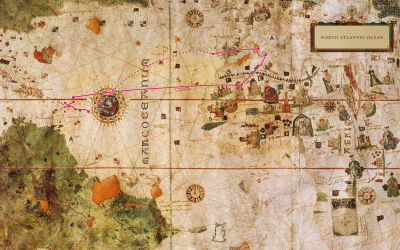
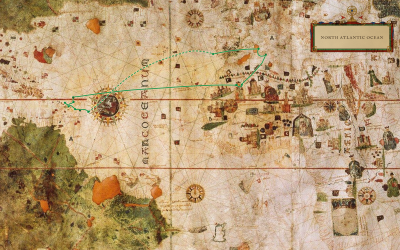
fix(sheet): ink follows the sheet just laid; the settings chips draw a line over a sheet and a lifted one; the golden uses the contrast palette

diff --git a/public/page.js b/public/page.js
@@ -362,6 +362,8 @@ const HOOD_GLYPHS = {
   off: MOUNTAIN_GLYPHS.off,
   sheets: svg(SHEET_GLYPH),
   rings: svg(`${SHEET_GLYPH}<circle cx="14" cy="9" r="4.5" ${stroke(RED, 1)}/><circle cx="14" cy="9" r="1.3" ${stroke(RED, 0.8)}/>${[0, 1, 2, 3, 4, 5, 6, 7].map((i) => `<circle cx="${(14 + 4.5 * Math.sin(i * Math.PI / 4)).toFixed(2)}" cy="${(9 - 4.5 * Math.cos(i * Math.PI / 4)).toFixed(2)}" r=".9" fill="${RED}"/>`).join('')}`),
+  ride: svg(`<rect x="4" y="3" width="20" height="12" ${stroke('currentColor', 1)}/><path d="M2 13C8 3 14 14 26 4" ${stroke(RED, 1.8)}/>`), // a line drawn over a sheet
+  lifted: svg(`<rect x="4" y="3" width="20" height="12" ${stroke('currentColor', 0.8)} stroke-dasharray="2 2"/><path d="M2 13C8 3 14 14 26 4" ${stroke(RED, 1.8)}/>`), // the sheet off, the line alone
   rose: svg(`<path d="M2 9h24M14 2v14M8 2v14M20 2v14M2 5h24M2 13h24" ${stroke('currentColor', 0.5)}/><path d="M14 6l1 3-1 3-1-3Z M11 9l3-1 3 1-3 1Z" fill="${RED}"/>`),
   zero: svg(`<path d="M2 9h24M14 2v14M8 2v14M20 2v14M2 5h24M2 13h24" ${stroke('currentColor', 0.5)}/><circle cx="14" cy="9" r="2.6" ${stroke(RED, 1.2)}/>`),
   curated: svg(`<rect x="3" y="3" width="22" height="12" ${stroke('currentColor', 1)}/><circle cx="14" cy="9" r="4" ${stroke('currentColor', 0.8)}/>`),
@@ -389,7 +391,7 @@ const CHOICES = {
   voyageWidth: VOYAGE_WIDTHS.map((w, i) => [String(w), ['Fine', 'Standard', 'Bold', 'Heavy'][i] ?? `${w} px`, `${w} px`, lineOf('#8c2f1e', w)]),
   scaleBorder: [['bordered', 'Bordered', 'parchment and a double rule'], ['blank', 'Blank', 'parchment, no rule'], ['transparent', 'Transparent', 'drawn over the map']].map(([value, label, note = '']) => [value, label, note, BORDER_GLYPHS[value]]),
   debug: [['off', 'Off', '', HOOD_GLYPHS.off], ['sheets', 'Outlines', 'each sheet of the atlas at this view, in red, with its name', HOOD_GLYPHS.sheets], ['sheets,rings', 'Outlines + rings', 'and each sheet\'s hidden circle: its hub and sixteen nodes', HOOD_GLYPHS.rings]],
-  sheetHides: [['0', 'Voyage rides over', 'a voyage is drawn over the sheet, wherever it lies, and the sheet stays', HOOD_GLYPHS.off], ['1', 'Sheet hides', 'a voyage\'s fly takes the sheet off if it would cover the voyage\'s frame', HOOD_GLYPHS.sheets]],
+  sheetHides: [['0', 'Voyage rides over', 'a voyage is drawn over the sheet, wherever it lies, and the sheet stays', HOOD_GLYPHS.ride], ['1', 'Sheet hides', 'a voyage\'s fly takes the sheet off if it would cover the voyage\'s frame', HOOD_GLYPHS.lifted]],
   overlayMode: [['sheet', 'One sheet', 'the whole scan, opaque, laid level and centred, dragged by hand', HOOD_GLYPHS.sheets], ['pieces', 'Warped pieces', 'each piece warped onto today\'s coast, at the opacity below', HOOD_GLYPHS.rings]],
   tuneOrigin: [['rose', `Catalan rose (${ROSE_AT})`, 'every band\'s grid has a corner on the rose', HOOD_GLYPHS.rose], ['zero', '0° 0°', 'NOAA\'s own zero', HOOD_GLYPHS.zero]],
   tuneCurated: [['1', 'On', 'the curated charts take the place of the grid cells they hold', HOOD_GLYPHS.curated], ['0', 'Off', 'grid cells everywhere', HOOD_GLYPHS.grid]],
@@ -737,17 +739,19 @@ async function render() {
     const t0 = performance.now();
     // a kind is drawn while any of its sprites is selected
     const kinds = KINDS.filter((k) => SPRITES.some((s) => s.kind === k && selection.has(s.key)));
+    const ink = voyageInk(), inkKey = JSON.stringify(ink); // read from the sheet last drawn; checked again once this one lands
     const { scene, data, bg, world, coarse, timing } = await createScene(env, {
       ...style, ...parsePlacement(style.placement), relief: style.mountains === 'colour' ? ['marina'] : style.mountains === 'ink' ? ['engraved'] : [],
       continents: style.continentsZoom > 0, continentsZoom: style.continentsZoom,
       regions: style.regionsZoom > 0 ? style.regions : 'off', regionSet: style.regionSet, regionsZoom: style.regionsZoom,
       sprites: [...selection], kinds, view, pinned: !phone.matches, pinTitle: style.autoTitle ? pinTitle : null,
-      voyages: style.voyages.filter((v) => !v.hidden).map((v) => ({ id: v.id, colour: voyageInk()[v.id], width: style.voyageWidth })), person: style.person, voyageWidth: style.voyageWidth,
+      voyages: style.voyages.filter((v) => !v.hidden).map((v) => ({ id: v.id, colour: ink[v.id], width: style.voyageWidth })), person: style.person, voyageWidth: style.voyageWidth,
       overlay: style.overlay ? { id: style.overlay, mode: style.overlayMode, sheet: style.sheet, opacity: style.overlayOpacity } : null,
       debug: parseDebug(style.debug).debug, tune: parseTune(style.tune).tune,
     });
     if (me !== run) return; // a newer change or a move superseded this one
     ground = { world, coarse, bg, voyages: scene.voyages, anchored: anchorScene(scene, data), overlay: scene.overlay, cards: { cartouche: kinds.includes('cartouche') ? scene.cartouche : null, scaleSprite: scene.scaleSprite, scale: style.scale, bg } };
+    if (JSON.stringify(voyageInk()) !== inkKey) { showVoyage(); render(); return; } // the sheet laid or lifted changed which voyages cross it: draw again in their inks
     applyReveal();
     if (style.autoTitle) $('title').value = scene.cartouche.title; // the box shows what the cartouche letters, and cannot be edited
     placed = view;

diff --git a/public/index.html b/public/index.html
@@ -605,8 +605,8 @@
       <div class="rows">
         <h3>Sheets</h3>
         <div id="debug" class="chips" role="radiogroup" aria-label="Sheets"></div>
-        <h3>Sheet and voyages</h3>
-        <div id="sheetHides" class="chips" role="radiogroup" aria-label="Sheet and voyages"></div>
+        <h3>Sheet hides for a voyage</h3>
+        <div id="sheetHides" class="chips" role="radiogroup" aria-label="Sheet hides for a voyage"></div>
         <h3>A chart's scan</h3>
         <div id="overlayMode" class="chips" role="radiogroup" aria-label="A chart's scan"></div>
         <div id="overlayOpacityRow" class="slider" hidden><input id="overlayOpacity" type="range" min="0" max="1" step="0.05" aria-label="Opacity of the warped pieces"><output id="overlayOpacityOut"></output></div>
